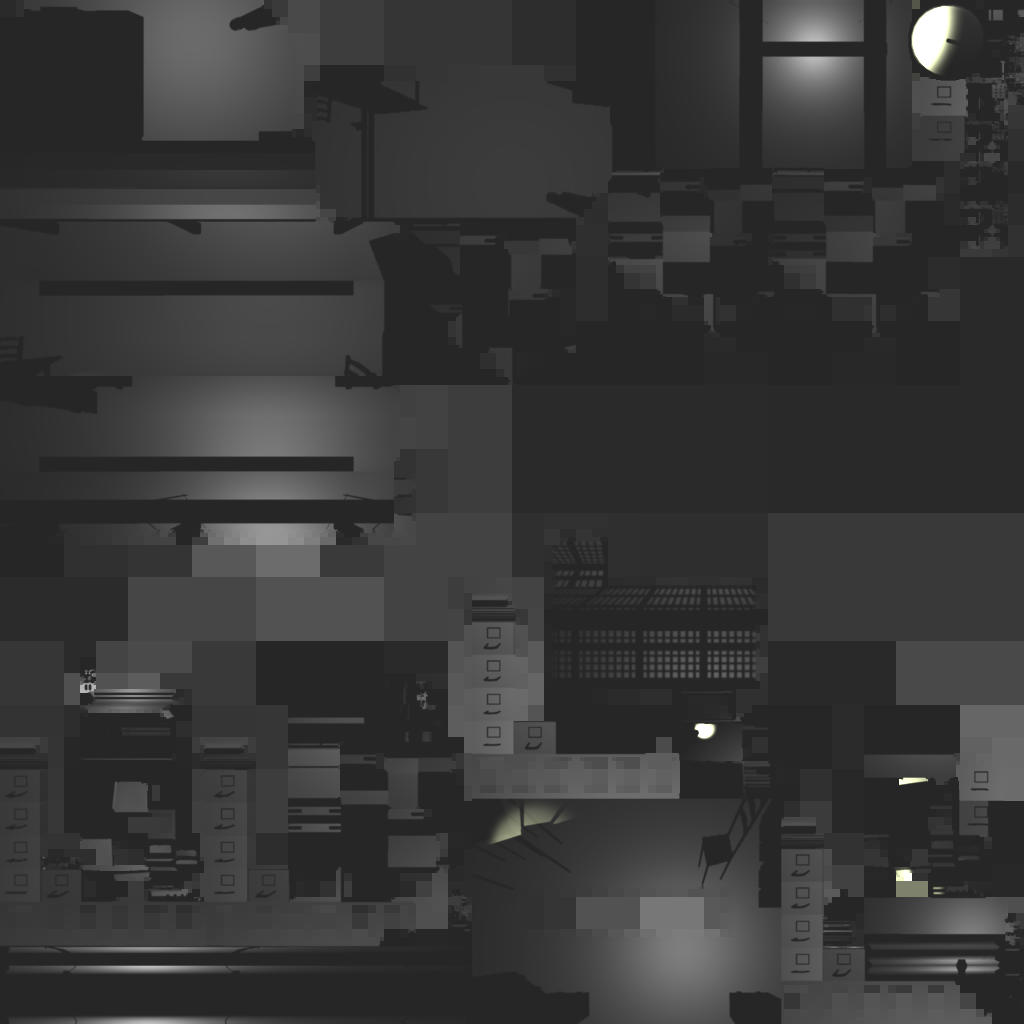
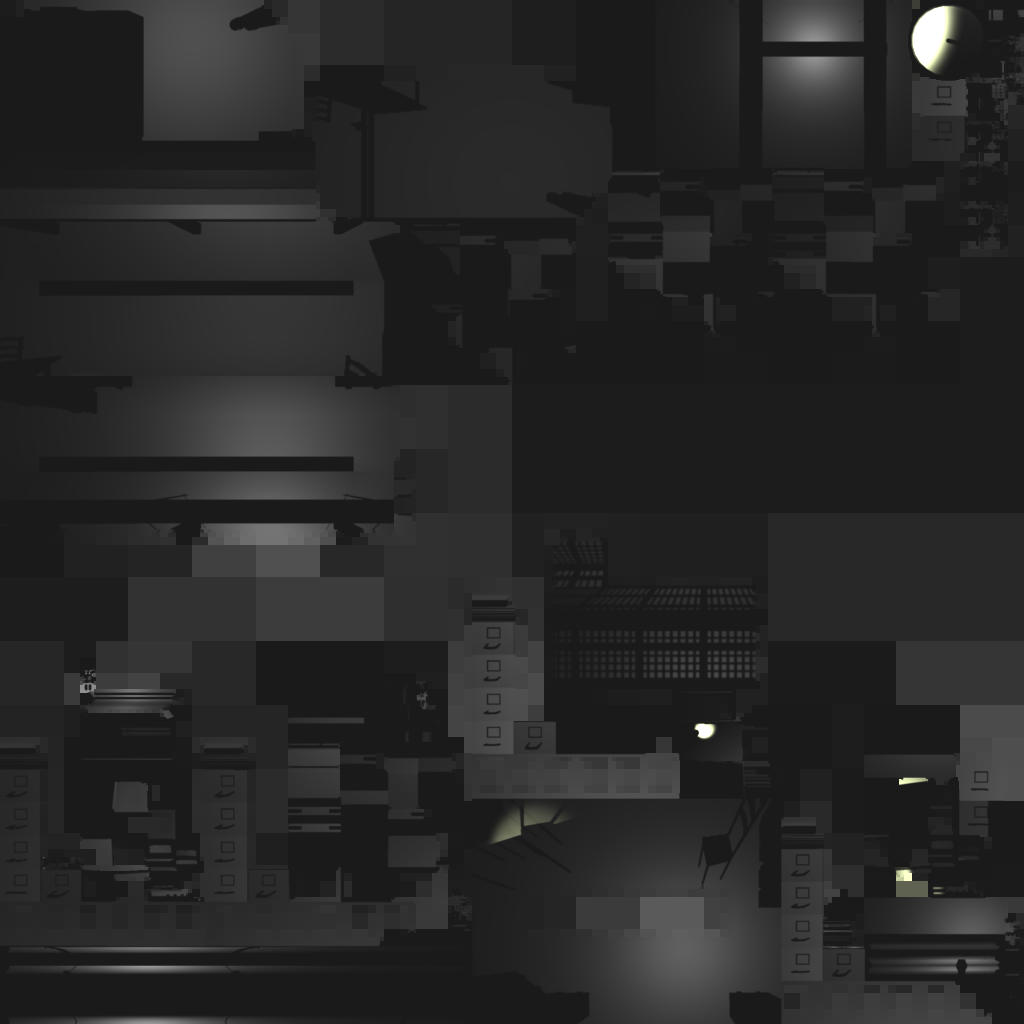
Spotlight now exported from Unity3d

diff --git a/build/j3d.js b/build/j3d.js
@@ -62,10 +62,10 @@ gl.uniform3fv(b.uniforms.uEyePosition.location,this.camera.worldPosition.xyz());
 gl.UNSIGNED_SHORT,0)):gl.drawArrays(b,0,a.geometry.size)};J3D.Engine.prototype.updateTransform=function(a,b){a.updateWorld(b);for(var c=0;c<a.numChildren;c++)this.updateTransform(a.childAt(c),a);a.enabled&&(a.renderer&&a.geometry&&(a.geometry.renderMode==J3D.RENDER_AS_TRANSPARENT?this._transparentMeshes.push(a):this._opaqueMeshes.push(a)),a.light&&this._lights.push(a))};J3D.Scene=function(){var a=this,b=[];this.ambient=J3D.Color.black;this.add=function(){for(var c,d=0;d<arguments.length;d++){var e=arguments[d];c||(c=e);b.push(e);e.parent=null;a.numChildren=b.length}return c};this.recurse=function(a){for(var d=0;d<b.length;d++)b[d].recurse(a)};this.childAt=function(a){return b[a]};this.contains=function(a){return b.indexOf(a)>-1};this.remove=function(c,d){if(a.contains(c))return b.splice(b.indexOf(c),1),a.numChildren=b.length,!0;else if(d)for(var e=0;e<b.length;e++){if(b[e].remove(c))return!0}else return!1};
 this.removeAll=function(){b=[];a.numChildren=0};this.addSkybox=function(a){this.skybox=new J3D.Transform;this.skybox.renderer=new J3D.BuiltinShaders.fetch("Skybox");this.skybox.renderer.uCubemap=a;this.skybox.geometry=J3D.Primitive.Cube(1,1,1).flip()}};J3D.Scene.prototype.find=function(a){a=a.split("/");for(var b=0;b<this.numChildren;b++)if(this.childAt(b).name==a[0])return a.length==1?this.childAt(b):this.childAt(b).find(a.slice(1));return null};J3D.Loader={};J3D.Loader.loadJSON=function(a,b){var c=new XMLHttpRequest;c.open("GET",a);c.onreadystatechange=function(){c.readyState==4&&b.call(null,JSON.parse(c.responseText))};c.send()};
 J3D.Loader.parseJSONScene=function(a,b,c){var d=new J3D.Transform;d.light=new J3D.Light(J3D.AMBIENT);d.light.color=J3D.Loader.fromObject(J3D.Color,a.ambient);c.scene.add(d);for(var e in b)b[e]=new J3D.Mesh(b[e]);c.setClearColor(J3D.Loader.fromObject(J3D.Color,a.background));for(var f in a.textures)d=new J3D.Texture(a.path+a.textures[f].file),a.textures[f]=d;if(a.lightmaps){J3D.LightmapAtlas=[];for(e=0;e<a.lightmaps.length;e++)d=new J3D.Texture(a.path+a.lightmaps[e]),J3D.LightmapAtlas.push(d)}for(var g in a.materials){e=
-a.materials[g];e=J3D.Loader.fetchShader(e.type,e);e.color=J3D.Loader.fromObject(J3D.Color,e.color);if(e.textureTile)e.textureTile=J3D.Loader.v2FromArray(e.textureTile);if(e.textureOffset)e.textureOffset=J3D.Loader.v2FromArray(e.textureOffset);if(e.colorTexture)e.colorTexture=a.textures[e.colorTexture],e.hasColorTexture=!0;a.materials[g]=e}for(var i in a.lights){e=a.lights[i];e=J3D.Loader.fromObject(J3D.Light,e);e.color=J3D.Loader.fromObject(J3D.Color,e.color);if(e.direction)e.direction=J3D.Loader.v3FromArray(e.direction);
-a.lights[i]=e}for(var h in a.cameras)e=a.cameras[h],e=new J3D.Camera({fov:e.fov,near:e.near,far:e.far}),a.cameras[h]=e;i=function(a){var c=a.collider;switch(c.type){case "box":var d=J3D.Loader.v3FromArray(c.size),e=J3D.Loader.v3FromArray(c.center);a.collider=J3D.Collider.Box({minX:e.x+d.x*-0.5,maxX:e.x+d.x*0.5,minY:e.y+d.y*-0.5,maxY:e.y+d.y*0.5,minZ:e.z+d.z*-0.5,maxZ:e.z+d.z*0.5});break;case "sphere":e=J3D.Loader.v3FromArray(c.center);a.collider=J3D.Collider.Sphere(c.radius,e);break;case "mesh":a.collider=
-J3D.Collider.Mesh(b[c.mesh])}};for(e=0;e<a.transforms.length;e++){h=a.transforms[e];h=J3D.Loader.fromObject(J3D.Transform,h);h.position=J3D.Loader.v3FromArray(h.position);h.rotation=J3D.Loader.v3FromArray(h.rotation);if(h.renderer)h.renderer=a.materials[h.renderer];if(h.mesh)h.geometry=b[h.mesh];if(h.light)h.light=a.lights[h.light];h.collider&&i(h);if(h.camera)h.camera=a.cameras[h.camera],c.camera=h;a.transforms[e]=h}i=function(b){for(var c=0;c<a.transforms.length;c++)if(a.transforms[c].uid==b)return a.transforms[c]};
-for(e=0;e<a.transforms.length;e++)h=a.transforms[e],h.parent!=null?(h.parent=i(h.parent),h.parent.add(h)):c.scene.add(h)};J3D.Loader.fetchShader=function(a,b){var c=J3D.BuiltinShaders.fetch(a),d;for(d in b)c[d]=b[d];return c};J3D.Loader.fromObject=function(a,b){var c=new a,d;for(d in b)c[d]=b[d];return c};J3D.Loader.v2FromArray=function(a){return new v2(a[0],a[1])};J3D.Loader.v3FromArray=function(a){return new v3(a[0],a[1],a[2])};
+a.materials[g];e=J3D.Loader.fetchShader(e.type,e);e.color=J3D.Loader.fromObject(J3D.Color,e.color);if(e.textureTile)e.textureTile=J3D.Loader.v2FromArray(e.textureTile);if(e.textureOffset)e.textureOffset=J3D.Loader.v2FromArray(e.textureOffset);if(e.colorTexture)e.colorTexture=a.textures[e.colorTexture],e.hasColorTexture=!0;a.materials[g]=e}for(var i in a.lights)e=a.lights[i],e=J3D.Loader.fromObject(J3D.Light,e),e.color=J3D.Loader.fromObject(J3D.Color,e.color),a.lights[i]=e;for(var h in a.cameras)e=
+a.cameras[h],e=new J3D.Camera({fov:e.fov,near:e.near,far:e.far}),a.cameras[h]=e;i=function(a){var c=a.collider;switch(c.type){case "box":var d=J3D.Loader.v3FromArray(c.size),e=J3D.Loader.v3FromArray(c.center);a.collider=J3D.Collider.Box({minX:e.x+d.x*-0.5,maxX:e.x+d.x*0.5,minY:e.y+d.y*-0.5,maxY:e.y+d.y*0.5,minZ:e.z+d.z*-0.5,maxZ:e.z+d.z*0.5});break;case "sphere":e=J3D.Loader.v3FromArray(c.center);a.collider=J3D.Collider.Sphere(c.radius,e);break;case "mesh":a.collider=J3D.Collider.Mesh(b[c.mesh])}};
+for(e=0;e<a.transforms.length;e++){h=a.transforms[e];h=J3D.Loader.fromObject(J3D.Transform,h);h.position=J3D.Loader.v3FromArray(h.position);h.rotation=J3D.Loader.v3FromArray(h.rotation);if(h.renderer)h.renderer=a.materials[h.renderer];if(h.mesh)h.geometry=b[h.mesh];if(h.light)h.light=a.lights[h.light];h.collider&&i(h);if(h.camera)h.camera=a.cameras[h.camera],c.camera=h;a.transforms[e]=h}i=function(b){for(var c=0;c<a.transforms.length;c++)if(a.transforms[c].uid==b)return a.transforms[c]};for(e=0;e<
+a.transforms.length;e++)h=a.transforms[e],h.parent!=null?(h.parent=i(h.parent),h.parent.add(h)):c.scene.add(h)};J3D.Loader.fetchShader=function(a,b){var c=J3D.BuiltinShaders.fetch(a),d;for(d in b)c[d]=b[d];return c};J3D.Loader.fromObject=function(a,b){var c=new a,d;for(d in b)c[d]=b[d];return c};J3D.Loader.v2FromArray=function(a){return new v2(a[0],a[1])};J3D.Loader.v3FromArray=function(a){return new v3(a[0],a[1],a[2])};
 J3D.Loader.loadGLSL=function(a,b){var c=new XMLHttpRequest;c.open("GET",a);c.onreadystatechange=function(){c.readyState==4&&b.call(null,J3D.ShaderUtil.parseGLSL(c.responseText))};c.send()};J3D.Geometry=function(){this.renderMode=J3D.RENDER_AS_OPAQUE;this.arrays=[];this.hasElements=!1};J3D.Geometry.prototype.setTransparency=function(a,b,c){a?(this.renderMode=J3D.RENDER_AS_TRANSPARENT,this.srcFactor=b,this.dstFactor=c):this.renderMode=J3D.RENDER_AS_OPAQUE};J3D.Geometry.prototype.addArray=function(a,b,c,d,e){if(!d)d=gl.FLOAT;if(!e)e=gl.STATIC_DRAW;a=new J3D.Geometry.Attribute(a,b,c,d,e,gl.ARRAY_BUFFER);this.arrays.push(a);this.size=a.size;return a};
 J3D.Geometry.prototype.replaceArray=function(a,b,c){if(!c)c=gl.STATIC_DRAW;a.data=b;gl.bindBuffer(gl.ARRAY_BUFFER,a.buffer);gl.bufferData(gl.ARRAY_BUFFER,b,c)};J3D.Geometry.prototype.addElement=function(a,b,c){if(!b)b=gl.UNSIGNED_SHORT;if(!c)c=gl.STATIC_DRAW;this.elements=new J3D.Geometry.Attribute("",a,0,b,c,gl.ELEMENT_ARRAY_BUFFER);this.hasElements=!0};
 J3D.Geometry.Attribute=function(a,b,c,d,e,f){this.name=a;this.data=b;this.buffer=gl.createBuffer();gl.bindBuffer(f,this.buffer);gl.bufferData(f,b,e);this.size=c>0?b.length/c:b.length;this.itemSize=c;this.type=d};J3D.Mesh=function(a){that=this;J3D.Geometry.call(this);this.hasUV1=!1;this.calculateBoundingBox=function(){for(var c=a.vertices,b={minX:Number.MAX_VALUE,maxX:-Number.MIN_VALUE,minY:Number.MAX_VALUE,maxY:-Number.MIN_VALUE,minZ:Number.MAX_VALUE,maxZ:-Number.MIN_VALUE},e=0;e<c.length;e+=3)b.minX=Math.min(b.minX,c[e+0]),b.maxX=Math.max(b.maxX,c[e+0]),b.minY=Math.min(b.minY,c[e+1]),b.maxY=Math.max(b.maxY,c[e+1]),b.minZ=Math.min(b.minZ,c[e+2]),b.maxZ=Math.max(b.maxZ,c[e+2]);this.boundingBox=b};for(var b in a)switch(b){case "vertices":this.vertexPositionBuffer=
@@ -112,7 +112,7 @@ J3D.ShaderSource.Selflit="//#name Selflit\n//#author bartekd\n//#description A v
 J3D.ShaderSource.Skybox="//#name Skybox\n//#author bartekd\n//#include CommonInclude\n//#vertex\n//#include VertexInclude\nuniform float mid;\nvarying vec3 vVertexPosition;\nvoid main(void) {\ngl_Position = pMatrix * vMatrix * vec4(uEyePosition + aVertexPosition * mid, 1.0);\nvVertexPosition = aVertexPosition;\n}\n//#fragment\nuniform samplerCube uCubemap;\nvarying vec3 vVertexPosition;\nvoid main(void) {\ngl_FragColor = textureCube(uCubemap, vVertexPosition);\n}\n";J3D.ShaderSource.Toon="//#name Toon\n//#author bartekd\n//#include CommonInclude\n//#vertex\n//#include VertexInclude\n//#include Lights\nvarying float vLight;\nvarying vec2 vTextureCoord;\nvoid main(void) {\nvec4 p = mMatrix * vec4(aVertexPosition, 1.0);\ngl_Position = pMatrix * vMatrix * p;\ngl_PointSize = 10.0;\nvTextureCoord = getTextureCoord(aTextureCoord);\nvec3 n = normalize( nMatrix * aVertexNormal );\nvLight = computeLights(p, n, 0.0, 0.0).r;\n}\n//#fragment\nuniform vec4 uColor;\nuniform sampler2D uColorSampler;\nvarying float vLight;\nvarying vec2 vTextureCoord;\nvoid main(void) {\nvec4 tc = texture2D(uColorSampler, vec2(vLight, 0.5) );\ngl_FragColor = vec4(tc.rgb, 1.0);\n}\n";
 J3D.ShaderSource.Vignette="//#name Vignette\n//#author bartekd\n//#vertex\n//#include BasicFilterVertex\n//#fragment\n//#include CommonFilterInclude\nuniform sampler2D uTexture;\nvarying vec2 vTextureCoord;\nvoid main(void) {\nvec2 m = vec2(0.5, 0.5);\nfloat d = distance(m, vTextureCoord) * 1.0;\nvec3 c = texture2D(uTexture, vTextureCoord).rgb * (1.0 - d * d);\ngl_FragColor = vec4(c.rgb, 1.0);\n}\n";J3D.ShaderSource.BasicFilterVertex="//#name BasicFilterVertex\n//#description A basic vertex shader for filters that use a full screen quad and have all the logic in fragment shader\nattribute vec2 aVertexPosition;\nattribute vec2 aTextureCoord;\nvarying vec2 vTextureCoord;\nvoid main(void) {\ngl_Position = vec4(aVertexPosition, 0.0, 1.0);\nvTextureCoord = aTextureCoord;\n}\n";
 J3D.ShaderSource.CommonFilterInclude="//#name CommonFilterInclude\n//#description Common uniforms and function for filters\nprecision mediump float;\nuniform float uTime;\nfloat whiteNoise(vec2 uv, float scale) {\nfloat x = (uv.x + 0.2) * (uv.y + 0.2) * (10000.0 + uTime);\nx = mod( x, 13.0 ) * mod( x, 123.0 );\nfloat dx = mod( x, 0.005 );\nreturn clamp( 0.1 + dx * 100.0, 0.0, 1.0 ) * scale;\n}\n";J3D.ShaderSource.CommonInclude="//#name CommonInclude\n//#description Collection of common uniforms, functions and structs to include in shaders (both fragment and vertex)\nprecision mediump float;\nuniform float uTime;\nuniform mat4 mMatrix;\nuniform mat4 vMatrix;\nuniform mat3 nMatrix;\nuniform mat4 pMatrix;\nuniform vec3 uEyePosition;\nuniform vec4 uTileOffset;\nmat4 mvpMatrix() {\nreturn pMatrix * vMatrix * mMatrix;\n}\nmat4 mvMatrix() {\nreturn vMatrix * mMatrix;\n}\nfloat luminance(vec3 c) {\nreturn c.r * 0.299 + c.g * 0.587 + c.b * 0.114;\n}\nfloat brightness(vec3 c) {\nreturn c.r * 0.2126 + c.g * 0.7152 + c.b * 0.0722;\n}\nvec2 getTextureCoord(vec2 uv) {\nreturn uv * uTileOffset.xy + uTileOffset.zw;\n}\n";
-J3D.ShaderSource.Lights="//#name Lights\n//#description Collection of light equations\n//#description Requires CommonInclude\nstruct lightSource {\nint type;\nvec3 direction;     // used by directional and spotlight (global direction of the transfom)\nvec3 position;      // used by point, spotlight (it's the global position of the transform)\nvec3 color;         // used by d/p/s and hemisphere\nfloat intensity;    // used by spherical harmonics & d/p/s\nfloat angleFalloff; // used by hemisphere and spotlight\nfloat angle;        // used by spotlight\n};\nuniform lightSource uLight[4];\nconst float C1 = 0.429043;\nconst float C2 = 0.511664;\nconst float C3 = 0.743125;\nconst float C4 = 0.886227;\nconst float C5 = 0.247708;\n//const vec3 L00  = vec3( 0.871297,  0.875222,  0.864470);\n//const vec3 L1m1 = vec3( 0.175058,  0.245335,  0.312891);\n//const vec3 L10  = vec3( 0.034675,  0.036107,  0.037362);\n//const vec3 L11  = vec3(-0.004629, -0.029448, -0.048028);\n//const vec3 L2m2 = vec3(-0.120535, -0.121160, -0.117507);\n//const vec3 L2m1 = vec3( 0.003242,  0.003624,  0.007511);\n//const vec3 L20  = vec3(-0.028667, -0.024926, -0.020998);\n//const vec3 L21  = vec3(-0.077539, -0.086325, -0.091591);\n//const vec3 L22  = vec3(-0.161784, -0.191783, -0.219152);\nconst vec3 L00  = vec3( 0.078908,  0.043710,  0.054161);\nconst vec3 L1m1 = vec3( 0.039499,  0.034989,  0.060488);\nconst vec3 L10  = vec3(-0.033974, -0.018236, -0.026940);\nconst vec3 L11  = vec3(-0.029213, -0.005562,  0.000944);\nconst vec3 L2m2 = vec3(-0.011141, -0.005090, -0.012231);\nconst vec3 L2m1 = vec3(-0.026240, -0.022401, -0.047479);\nconst vec3 L20  = vec3(-0.015570, -0.009471, -0.014733);\nconst vec3 L21  = vec3( 0.056014,  0.021444,  0.013915);\nconst vec3 L22  = vec3( 0.021205, -0.005432, -0.030374);\nvec3 sphericalHarmonics(vec3 n, lightSource ls) {\nvec3 c =  C1 * L22 * (n.x * n.x - n.y * n.y) +\nC3 * L20 * n.z * n.z +\nC4 * L00 -\nC5 * L20 +\n2.0 * C1 * L2m2 * n.x * n.y +\n2.0 * C1 * L21  * n.x * n.z +\n2.0 * C1 * L2m1 * n.y * n.z +\n2.0 * C2 * L11  * n.x +\n2.0 * C2 * L1m1 * n.y +\n2.0 * C2 * L10  * n.z;\nc *= ls.intensity;\nreturn c;\n}\nvec3 hemisphere(vec4 p, vec3 n, float si, float sh, lightSource ls) {\nvec3 lv = normalize(ls.position - p.xyz);\nfloat dif = (dot(n, lv) * 0.5 + 0.5);\ndif = smoothstep(ls.angleFalloff, 1.0-ls.angleFalloff, dif);\nfloat spec = 0.0;\nif(si > 0.0) {\nvec3 eyed = normalize(uEyePosition - p.xyz);\nvec3 refd = reflect(-lv, n);\nspec = pow(max(dot(refd, eyed), 0.0), sh) * si;\n};\nreturn ls.color * dif + ls.color * spec;\n}\nvec3 phong(vec4 p, vec3 n, float si, float sh, lightSource ls){\nvec3 ld;\nif(ls.type == 1) ld = -ls.direction;\nelse ld = normalize(ls.position - p.xyz);\nfloat dif = max(dot(n, ld), 0.0);\nfloat spec = 0.0;\nif(si > 0.0) {\nvec3 eyed = normalize(uEyePosition - p.xyz);\nvec3 refd = reflect(-ld, n);\nspec = pow( (dot(refd, eyed) + 1.0) * 0.5, sh * 4.0) * si;\n}\nif(ls.type == 3) {\nfloat dd = dot(ld, -ls.direction);\nfloat ca = cos(ls.angle);\nfloat cf = cos(ls.angle + ls.angleFalloff);\nfloat spm = smoothstep(cf, ca, dd);\ndif *= spm;\nspec *= spm;\n}\ndif *= ls.intensity;\nreturn ls.color * dif + ls.color * spec;\n}\nvec3 singleLight(vec4 p, vec3 n, float si, float sh, lightSource ls) {\nif(ls.type == 0) {\nreturn ls.color;\n} else if(ls.type > 0 && ls.type < 4) {\nreturn phong(p, n, si, sh, ls);\n} else if(ls.type == 4) {\nreturn hemisphere(p, n, si, sh, ls);\n} else if(ls.type == 5) {\nreturn sphericalHarmonics(n, ls);\n} else {\nreturn vec3(0);\n}\n}\nvec3 computeLights(vec4 p, vec3 n, float si, float sh) {\nvec3 s = vec3(0);\ns += singleLight(p, n, si, sh, uLight[0]);\ns += singleLight(p, n, si, sh, uLight[1]);\ns += singleLight(p, n, si, sh, uLight[2]);\ns += singleLight(p, n, si, sh, uLight[3]);\nreturn s;\n}\n";
+J3D.ShaderSource.Lights="//#name Lights\n//#description Collection of light equations\n//#description Requires CommonInclude\n//#description TODO Separate functions for directional, spot, point, hemi/phong models for all, separate dif func from spec\nstruct lightSource {\nint type;\nvec3 direction;     // used by directional and spotlight (global direction of the transfom)\nvec3 position;      // used by point, spotlight (it's the global position of the transform)\nvec3 color;         // used by d/p/s and hemisphere\nfloat intensity;    // used by spherical harmonics & d/p/s\nfloat angleFalloff; // used by hemisphere and spotlight (TODO: change to falloff)\nfloat angle;        // used by spotlight\n};\nuniform lightSource uLight[4];\nconst float C1 = 0.429043;\nconst float C2 = 0.511664;\nconst float C3 = 0.743125;\nconst float C4 = 0.886227;\nconst float C5 = 0.247708;\n//const vec3 L00  = vec3( 0.871297,  0.875222,  0.864470);\n//const vec3 L1m1 = vec3( 0.175058,  0.245335,  0.312891);\n//const vec3 L10  = vec3( 0.034675,  0.036107,  0.037362);\n//const vec3 L11  = vec3(-0.004629, -0.029448, -0.048028);\n//const vec3 L2m2 = vec3(-0.120535, -0.121160, -0.117507);\n//const vec3 L2m1 = vec3( 0.003242,  0.003624,  0.007511);\n//const vec3 L20  = vec3(-0.028667, -0.024926, -0.020998);\n//const vec3 L21  = vec3(-0.077539, -0.086325, -0.091591);\n//const vec3 L22  = vec3(-0.161784, -0.191783, -0.219152);\nconst vec3 L00  = vec3( 0.078908,  0.043710,  0.054161);\nconst vec3 L1m1 = vec3( 0.039499,  0.034989,  0.060488);\nconst vec3 L10  = vec3(-0.033974, -0.018236, -0.026940);\nconst vec3 L11  = vec3(-0.029213, -0.005562,  0.000944);\nconst vec3 L2m2 = vec3(-0.011141, -0.005090, -0.012231);\nconst vec3 L2m1 = vec3(-0.026240, -0.022401, -0.047479);\nconst vec3 L20  = vec3(-0.015570, -0.009471, -0.014733);\nconst vec3 L21  = vec3( 0.056014,  0.021444,  0.013915);\nconst vec3 L22  = vec3( 0.021205, -0.005432, -0.030374);\nvec3 sphericalHarmonics(vec3 n, lightSource ls) {\nvec3 c =  C1 * L22 * (n.x * n.x - n.y * n.y) +\nC3 * L20 * n.z * n.z +\nC4 * L00 -\nC5 * L20 +\n2.0 * C1 * L2m2 * n.x * n.y +\n2.0 * C1 * L21  * n.x * n.z +\n2.0 * C1 * L2m1 * n.y * n.z +\n2.0 * C2 * L11  * n.x +\n2.0 * C2 * L1m1 * n.y +\n2.0 * C2 * L10  * n.z;\nc *= ls.intensity;\nreturn c;\n}\nvec3 hemisphere(vec4 p, vec3 n, float si, float sh, lightSource ls) {\nvec3 lv = normalize(ls.position - p.xyz);\nfloat dif = (dot(n, lv) * 0.5 + 0.5);\ndif = smoothstep(ls.angleFalloff, 1.0-ls.angleFalloff, dif);\nfloat spec = 0.0;\nif(si > 0.0) {\nvec3 eyed = normalize(uEyePosition - p.xyz);\nvec3 refd = reflect(-lv, n);\nspec = pow(max(dot(refd, eyed), 0.0), sh) * si;\n};\nreturn ls.color * dif + ls.color * spec;\n}\nvec3 phong(vec4 p, vec3 n, float si, float sh, lightSource ls){\nvec3 ld;\nif(ls.type == 1) ld = -ls.direction;\nelse ld = normalize(ls.position - p.xyz);\nfloat dif = max(dot(n, ld), 0.0);\nfloat spec = 0.0;\nif(si > 0.0) {\nvec3 eyed = normalize(uEyePosition - p.xyz);\nvec3 refd = reflect(-ld, n);\nspec = pow( (dot(refd, eyed) + 1.0) * 0.5, sh * 4.0) * si;\n}\nif(ls.type == 3) {\nfloat dd = dot(ld, -ls.direction);\nfloat ca = cos(ls.angle);\nfloat cf = cos(ls.angle + ls.angleFalloff);\nfloat spm = smoothstep(cf, ca, dd);\ndif *= spm;\nspec *= spm;\n}\ndif *= ls.intensity;\nreturn ls.color * dif + ls.color * spec;\n}\nvec3 singleLight(vec4 p, vec3 n, float si, float sh, lightSource ls) {\nif(ls.type == 0) {\nreturn ls.color;\n} else if(ls.type > 0 && ls.type < 4) {\nreturn phong(p, n, si, sh, ls);\n} else if(ls.type == 4) {\nreturn hemisphere(p, n, si, sh, ls);\n} else if(ls.type == 5) {\nreturn sphericalHarmonics(n, ls);\n} else {\nreturn vec3(0);\n}\n}\nvec3 computeLights(vec4 p, vec3 n, float si, float sh) {\nvec3 s = vec3(0);\ns += singleLight(p, n, si, sh, uLight[0]);\ns += singleLight(p, n, si, sh, uLight[1]);\ns += singleLight(p, n, si, sh, uLight[2]);\ns += singleLight(p, n, si, sh, uLight[3]);\nreturn s;\n}\n";
 J3D.ShaderSource.Modifiers="//#name Modifiers\n//#description A collection of modifier functions for geometry (only bend for now)\nvec3 bend(vec3 ip, float ba, vec2 b, float o, float a) {\nvec3 op = ip;\nip.x = op.x * cos(a) - op.y * sin(a);\nip.y = op.x * sin(a) + op.y * cos(a);\nif(ba != 0.0) {\nfloat radius = b.y / ba;\nfloat onp = (ip.x - b.x) / b.y - o;\nip.z = cos(onp * ba) * radius - radius;\nip.x = (b.x + b.y * o) + sin(onp * ba) * radius;\n}\nop = ip;\nip.x = op.x * cos(-a) - op.y * sin(-a);\nip.y = op.x * sin(-a) + op.y * cos(-a);\nreturn ip;\n}\n";
 J3D.ShaderSource.VertexInclude="//#name VertexInclude\n//#description Common attributes for a mesh - include this in a vertex shader so you don't rewrite this over and over again\nattribute vec3 aVertexPosition;\nattribute vec3 aVertexNormal;\nattribute vec2 aTextureCoord;\nattribute vec2 aTextureCoord2;\nattribute vec4 aVertexColor;\n";J3D.Ray=function(a,b){this.origin=a||new v3;this.direction=b||new v3;this.localOrigin=new v3;this.localDirection=new v3};J3D.Ray._mt=mat4.create();J3D.Ray._nt=mat3.create();J3D.Ray.fromMousePosition=function(a,b,c){a=[a/window.innerWidth*2-1,(1-b/window.innerHeight)*2-1,0];mat4.inverse(c.camera.projectionMat.toArray(),J3D.Ray._mt);mat4.multiplyVec3(J3D.Ray._mt,a);mat4.multiplyVec3(c.globalMatrix,a);b=new J3D.Ray;b.origin.fromArray(a);b.direction=b.origin.sub(c.worldPosition).norm();return b};
 J3D.Ray.prototype.makeLocal=function(a){mat4.inverse(a.globalMatrix,J3D.Ray._mt);this.localOrigin.fromArray(mat4.multiplyVec3(J3D.Ray._mt,this.origin.xyz()));mat4.toInverseMat3(a.globalMatrix,J3D.Ray._nt);mat3.transpose(J3D.Ray._nt);a=this.direction;var b=this.direction.xyz(),c=J3D.Ray._nt;b[0]=a.x*c[0]+a.y*c[1]+a.z*c[2];b[1]=a.x*c[3]+a.y*c[4]+a.z*c[5];b[2]=a.x*c[6]+a.y*c[7]+a.z*c[8];this.localDirection.fromArray(b)};J3D.Collider=function(){this.center=v3.ZERO()};J3D.Collider.SPHERE=1;J3D.Collider.BOX=2;J3D.Collider.MESH=3;J3D.Collider.Sphere=function(a,b){var c=new J3D.Collider;c.type=J3D.Collider.SPHERE;c.radius=a||0;c.center=b||v3.ZERO();return c};J3D.Collider.Box=function(a){var b=new J3D.Collider;b.type=J3D.Collider.BOX;b.box=a;return b};J3D.Collider.Mesh=function(a){var b=new J3D.Collider;b.type=J3D.Collider.MESH;a.boundingBox||a.calculateBoundingBox();b.box=a.boundingBox;b.mesh=a;return b};J3D.Color=function(a,b,c,d){var e=this;this.r=a||0;this.g=b||0;this.b=c||0;this.a=d||0;this.rgba=function(){return[e.r,e.g,e.b,e.a]};this.rgb=function(){return[e.r,e.g,e.b]};this.toUniform=function(a){return a==gl.FLOAT_VEC3?this.rgb():this.rgba()}};J3D.Color.white=new J3D.Color(1,1,1,1);J3D.Color.black=new J3D.Color(0,0,0,1);J3D.Color.red=new J3D.Color(1,0,0,1);J3D.Color.green=new J3D.Color(0,1,0,1);J3D.Color.blue=new J3D.Color(0,0,1,1);J3D.Time={};J3D.Time.time=0;J3D.Time.startTime=0;J3D.Time.lastTime=0;J3D.Time.deltaTime=0;J3D.Time.tick=function(){var a=(new Date).getTime();if(J3D.Time.startTime==0)J3D.Time.startTime=a;if(J3D.Time.lastTime!=0)J3D.Time.deltaTime=a-J3D.Time.lastTime;J3D.Time.lastTime=a;J3D.Time.time=(a-J3D.Time.startTime)/1E3};J3D.Time.getTime=function(){J3D.Time.tick();return J3D.Time.deltaTime};

diff --git a/demo/008_Lightmap.html b/demo/008_Lightmap.html
@@ -44,8 +44,7 @@
 
 <script>
 	var mx = 0, my = 0;	
-	var fps, eye, walls, bunker, headlight;
-	var lightmaps, nolightmaps;
+	var fps, eye, headlight;
 	var showmaps = true;
 	var moveLeft = 0, moveForward = 0;
 	var post;
@@ -80,19 +79,7 @@
 				fps = engine.scene.find("fps");
 				eye = engine.scene.find("fps/eye");
 
-                bunker = engine.scene.find("bunker");
-                walls = engine.scene.find("bunker/walls");
-
-                var hl = new J3D.Light(J3D.SPOTLIGHT);
-                hl.direction = v3.FORWARD();
-                hl.angle = Math.PI / 16;
-                hl.angleFalloff = Math.PI / 32;
-                hl.intensity = 0.5;
-
-                headlight = new J3D.Transform();
-                headlight.light = hl;
-
-                eye.add(headlight);
+                headlight = eye.light;
 
 				draw();
 			})
@@ -105,10 +92,10 @@
 	}
 
     function onMouseDown(e) {
-        if(eye.contains(headlight)) {
-            eye.remove(headlight);
+        if(eye.light) {
+            eye.light = null;
         } else {
-            eye.add(headlight);
+            eye.light = headlight;
         }
     }
 	
@@ -159,13 +146,46 @@
 		my = ( e.clientY / window.innerHeight ) * 2 - 1;
 	}
 
-	function draw() {
+    function move2() {
+        var fv = fps.forward().mul(moveForward).add( fps.left().mul(moveLeft) );
+        var cx = new v3(fv.x, 0, 0).norm();
+        var cz = new v3(0, 0, fv.z).norm();
 
-        fps.rotation.y = -mx * Math.PI * 2;
-		eye.rotation.x = -my * Math.PI * .25;
+        var rf = new J3D.Ray(fps.position, fv);
+        var rx = new J3D.Ray(fps.position, cx);
+        var rz = new J3D.Ray(fps.position, cz);
 
-        if(isMoving > 0) {
+        var fvh = Number.MAX_VALUE, cxh = Number.MAX_VALUE, czh = Number.MAX_VALUE;
 
+        engine.scene.recurse( function(t) {
+            if(!t.collider) return;
+
+            var hfi = J3D.Intersection.rayTest(rf, t);
+            var cxi = J3D.Intersection.rayTest(rx, t);
+            var czi = J3D.Intersection.rayTest(rz, t);
+
+            if(hfi && hfi > -1) fvh = Math.min(fvh, hfi);
+            if(cxi && cxi > -1) cxh = Math.min(cxh, cxi);
+            if(czi && czi > -1) czh = Math.min(czh, czi);
+        });
+
+        fvh -= skin;
+        fvh = Math.max(0, fvh);
+
+        cxh -= skin;
+        cxh = Math.max(0, cxh);
+
+        czh -= skin;
+        czh = Math.max(0, czh);
+
+        if(fvh < fv.mag()) fv.norm().mul(fvh);
+        fv.x = (fv.x > 0) ? Math.min(fv.x, cxh) : Math.max(fv.x, -cxh);
+        fv.z = (fv.z > 0) ? Math.min(fv.z, czh) : Math.max(fv.z, -czh);
+
+        fps.position = fps.position.add(fv);
+    }
+
+    function move() {
             var rp = fps.position;
 
             var rf = new J3D.Ray(rp, fv);
@@ -210,9 +230,14 @@
             m.z = Math.max(m.z, -hf);
 
             fps.position = fps.position.add(m);
-        }
+    }
 
+	function draw() {
 
+        fps.rotation.y = -mx * Math.PI * 2;
+		eye.rotation.x = -my * Math.PI * .25;
+
+        if(isMoving > 0) move2();
 
 		if(document.getElementById("dizzy").checked)
             post.render();
@@ -221,6 +246,8 @@
 
         requestAnimationFrame(draw);
 	}
+
+
 		
 </script>
 

diff --git a/src/engine/ShaderSource.js b/src/engine/ShaderSource.js
@@ -412,6 +412,7 @@ J3D.ShaderSource.Lights = [
 	"//#name Lights",
 	"//#description Collection of light equations",
 	"//#description Requires CommonInclude",
+	"//#description TODO Separate functions for directional, spot, point, hemi/phong models for all, separate dif func from spec",
 
 	"struct lightSource {",
 	"int type;",
@@ -421,7 +422,7 @@ J3D.ShaderSource.Lights = [
 
 	"vec3 color;         // used by d/p/s and hemisphere",
 	"float intensity;    // used by spherical harmonics & d/p/s",
-	"float angleFalloff; // used by hemisphere and spotlight",
+	"float angleFalloff; // used by hemisphere and spotlight (TODO: change to falloff)",
 	"float angle;        // used by spotlight",
 	"};",
 

diff --git a/src/engine/Loader.js b/src/engine/Loader.js
@@ -59,7 +59,6 @@ J3D.Loader.parseJSONScene = function(jscene, jmeshes, engine) {
 		var lg = jscene.lights[lgs];
 		lg = J3D.Loader.fromObject(J3D.Light, lg);
 		lg.color = J3D.Loader.fromObject(J3D.Color, lg.color);
-		if(lg.direction) lg.direction = J3D.Loader.v3FromArray(lg.direction);
 		jscene.lights[lgs] = lg;
 	}
 	

diff --git a/exporters/unity3d/Assets/Editor/data/LightmapExportData.cs b/exporters/unity3d/Assets/Editor/data/LightmapExportData.cs
@@ -4,7 +4,6 @@ using UnityEngine;
 
 public class LightmapExportData
 {
-	private const float MULT = 8.0f;
 	private const string NAME_BASE = "lightmap";
 	
 	private int index;
@@ -28,7 +27,7 @@ public class LightmapExportData
 		}
 	}
 	
-	public void Save (string path, float jpegQuality)
+	public void Save (string path, float jpegQuality, float lightmapMult, float lightmapPower)
 	{
 		Texture2D ti = LightmapSettings.lightmaps[index].lightmapFar;
 		Texture2D tf = new Texture2D(ti.width, ti.height, TextureFormat.ARGB32, false);
@@ -41,9 +40,9 @@ public class LightmapExportData
 			float gf = c[j].g / 255f;
 			float bf = c[j].b / 255f;
 			
-			float ur = rf * af * 255f * MULT;
-			float ug = gf * af * 255f * MULT;
-			float ub = bf * af * 255f * MULT;
+			float ur = Mathf.Pow(rf * af, lightmapPower) * 255f * lightmapMult;
+			float ug = Mathf.Pow(gf * af, lightmapPower) * 255f * lightmapMult;
+			float ub = Mathf.Pow(bf * af, lightmapPower) * 255f * lightmapMult;
 			
 			ur = Mathf.Clamp(ur, 0, 255);
 			ug = Mathf.Clamp(ug, 0, 255);

diff --git a/exporters/unity3d/Assets/Editor/J3DExport.cs b/exporters/unity3d/Assets/Editor/J3DExport.cs
@@ -18,6 +18,8 @@ public class J3DExport : ScriptableWizard
 	public Transform[] transforms;
 	
 	public float jpegQuality = 75.0f;
+	public float lightmapBrightness = 8.0f;
+	public float lightmapContrast = 1.1f;
 	
 	public bool useConsole = true;
 	//public ReportLevel level = ReportLevel.Warning;
@@ -110,7 +112,7 @@ public class J3DExport : ScriptableWizard
 		}
 		
 		foreach (LightmapExportData d in led) {
-			d.Save(texturePath, jpegQuality);
+			d.Save(texturePath, jpegQuality, lightmapBrightness, lightmapContrast);
 		}
 		
 		Report.log ("Exported " + tex.Count + " transforms");

diff --git a/exporters/unity3d/Assets/Editor/data/LightExportData.cs b/exporters/unity3d/Assets/Editor/data/LightExportData.cs
@@ -36,6 +36,22 @@ public class LightExportData
 		get { return lg.color; }
 	}
 	
+	public bool IsSpot {
+		get { return lg.type == LightType.Spot; }
+	}
+	
+	public float Angle {
+		get { return lg.spotAngle / 180.0f * Mathf.PI - FalloffAngle; }
+	}
+	
+	public float Intensity {
+		get { return lg.intensity; }
+	}
+	
+	public float FalloffAngle {
+		get { return Mathf.PI / 32.0f; }
+	}
+	
 	public string[] Direction {
 		get {
 			//Vector3 p = t.TransformDirection (t.forward);
